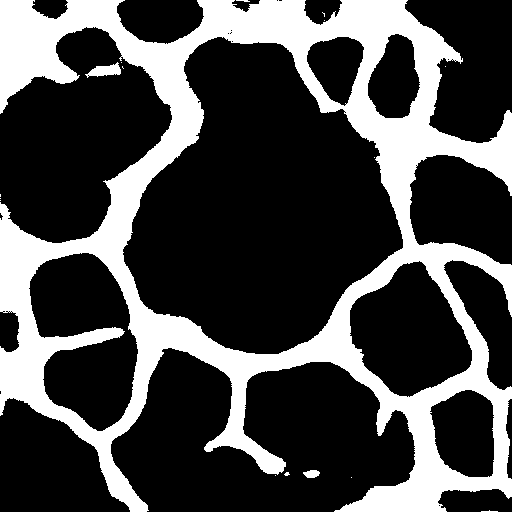
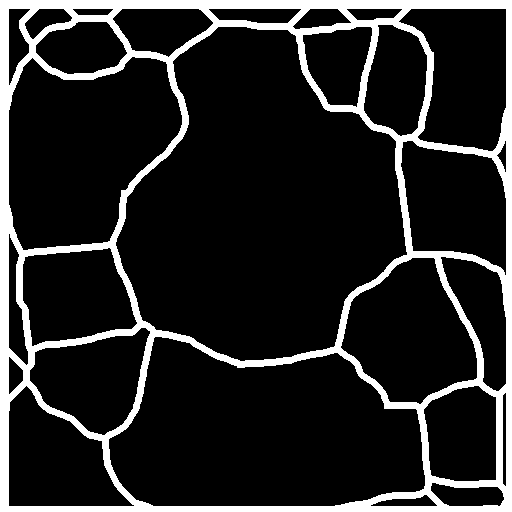
main

Changed region(s): [[0.0, 0.0, 1.0, 1.0], [0.0, 0.1875, 0.0312, 0.4375], [0.5938, 0.9062, 0.625, 0.9375]]

diff --git a/main.py b/main.py
@@ -9,7 +9,8 @@ import cv2
 
 from model.nets.mpunet import MPUNet
 import torch.nn.functional as F
-from post_proc import boundary_proc, xcx_proc
+from post_proc import boundary_proc, xcx_proc,classical_boundary_proc
+from post_water import water_post
 
 
 def read_image(image_path):
@@ -62,6 +63,14 @@ def inference(weight_path, root_path, save_path, use_post_process = False):
         image = image.to(device)
         image = image.unsqueeze(dim=0)
 
+        # label 
+        img_name = image_path.name
+        print(img_name)
+        print(Path(root_path.parent,"test_boundary_label",img_name))
+        label_xcx = cv2.imread(str(Path(root_path.parent,"test_xcx_label",img_name)),0)
+        label_boundary = cv2.imread(str(Path(root_path.parent,"test_boundary_label",img_name)),0)
+
+
         out_tensor, xcx_tensor = net(image)
         out_tensor = F.softmax(out_tensor, dim = 1)
         xcx_tensor = F.softmax(xcx_tensor, dim = 1)
@@ -71,12 +80,16 @@ def inference(weight_path, root_path, save_path, use_post_process = False):
 
         out_img = np.argmax(out_tensor, axis=2).astype(np.uint8)
         xcx_img = np.argmax(xcx_tensor, axis=2).astype(np.uint8)
-        if use_post_process:
+        if use_post_process: # post-process include prun and adaptative strategy
+            classical_out_img = classical_boundary_proc(out_img) # classical_boundary_proc
             out_img = boundary_proc(out_img)
             xcx_img = xcx_proc(xcx_img)
+            water_out_img = water_post(img, out_img, xcx_img, thresh_iou=0.9)
+
 
         out_img[out_img>0] = 255
         xcx_img[xcx_img>0] = 255
+        water_out_img[water_out_img>0] = 255
 
         
         label_name = image_path.name
@@ -87,9 +100,12 @@ def inference(weight_path, root_path, save_path, use_post_process = False):
         
         print(image_path.name)
         plt.figure(figsize=(20, 20))
-        plt.subplot(1, 3, 1), plt.imshow(img, cmap="gray"), plt.title("img"), plt.axis("off")
-        plt.subplot(1, 3, 2), plt.imshow(out_img, cmap="gray"), plt.title("output_boundary"), plt.axis("off")
-        plt.subplot(1, 3, 3), plt.imshow(xcx_img, cmap="gray"), plt.title("output_xcx"), plt.axis("off")
+        plt.subplot(2, 3, 1), plt.imshow(img, cmap="gray"), plt.title("img"), plt.axis("off")
+        plt.subplot(2, 3, 2), plt.imshow(label_xcx, cmap="gray"), plt.title("label_xcx"), plt.axis("off") # label xcx
+        plt.subplot(2, 3, 3), plt.imshow(xcx_img, cmap="gray"), plt.title("output_xcx"), plt.axis("off")
+        plt.subplot(2, 3, 4), plt.imshow(label_boundary, cmap="gray"), plt.title("label_boundary"), plt.axis("off")
+        plt.subplot(2, 3, 5), plt.imshow(classical_out_img, cmap="gray"), plt.title("classical_post_out_img"), plt.axis("off")
+        plt.subplot(2, 3, 6), plt.imshow(water_out_img, cmap="gray"), plt.title("ours_out_img"), plt.axis("off")
         plt.show()
 
         cv2.imwrite(str(Path(boundary_path, label_name)), out_img)
@@ -103,6 +119,5 @@ if __name__ == '__main__':
     infer_path = './data/OM/test_img'
     save_path = './infer/OM/'
 
-    use_post_process = False
+    use_post_process = True
     inference(weight_phta_path, infer_path, save_path, use_post_process)
-# %%

diff --git a/post_water.py b/post_water.py
@@ -7,14 +7,6 @@ import matplotlib.pyplot as plt
 import datetime
 from post_proc import skeletonize, padding_img, dilate, boundary_proc
 
-def label_img(img):
-    '''
-    Label each grain
-    :param img:
-    :return: 
-    '''
-    img_map, num_label = measure.label(img, connectivity=1, background=0, return_num=True)
-    return img_map, num_label
 
 def post_overlap_grain(i, boundary_map, xcx_map):
     '''
@@ -128,22 +120,22 @@ def water_grain(i, j, boundary_map, xcx_map, img, thresh_iou):
     return [maker, x, y]
 
 
-def water_post(img_path, boundary_path, xcx_path, thresh_iou):  # todo
+def water_post(img, boundary, xcx, thresh_iou):  # todo
     '''
     :param img_path:
     :param boundary_path:
     :param xcx_path:
     :return:
     '''
-    xcx = cv2.imread(xcx_path, 0)
-    img = cv2.imread(img_path, 0)
-    boundary = cv2.imread(boundary_path, 0)
+    # xcx = cv2.imread(xcx_path, 0)
+    # img = cv2.imread(img_path, 0)
+    # boundary = cv2.imread(boundary_path, 0)
 
-    plt.figure()
-    plt.subplot(131),plt.imshow(img)
-    plt.subplot(132),plt.imshow(boundary)
-    plt.subplot(133),plt.imshow(xcx)
-    plt.show()
+    # plt.figure()
+    # plt.subplot(131),plt.imshow(img, cmap="gray")
+    # plt.subplot(132),plt.imshow(boundary, cmap="gray")
+    # plt.subplot(133),plt.imshow(xcx, cmap="gray")
+    # plt.show()
 
     boundary[boundary != 0] = 1
 
@@ -157,8 +149,8 @@ def water_post(img_path, boundary_path, xcx_path, thresh_iou):  # todo
     # Because the boundary segmentation is not good, first pad the boundary of the boundary
     boundary = padding_img(~boundary, 0)
 
-    boundary_map, num_boundary = label_img(boundary)
-    xcx_map, num_xcx = label_img(xcx)
+    boundary_map, num_boundary = measure.label(boundary, connectivity=1, background=0, return_num=True)
+    xcx_map, num_xcx = measure.label(xcx, connectivity=1, background=0, return_num=True)
 
     for i in range(1, num_xcx + 1):
 
@@ -224,8 +216,12 @@ if __name__ == '__main__':
         pic_xcx_path = xcx_path + "/" + filename
         pic_boundary_path = boundary_path + "/" + filename
         pic_save_path = save_path + "/" + filename
-        
-        water_img = water_post(pic_img_path, pic_boundary_path, pic_xcx_path, thresh_iou)
+
+        xcx = cv2.imread(pic_xcx_path, 0)
+        img = cv2.imread(pic_img_path, 0)
+        boundary = cv2.imread(pic_boundary_path, 0)
+
+        water_img = water_post(img, boundary, xcx, thresh_iou)
         
         water_img = boundary_proc(water_img)
         water_img[water_img > 0] = 255

diff --git a/train.py b/train.py
@@ -15,7 +15,7 @@ import torch.nn as nn
 import torch.optim as optim
 from torch.utils.data import DataLoader
 import torchvision.transforms as tr
-from sklearn.model_selection import KFold
+from sklearn.model_selection import KFold, train_test_split
 import pandas as pd
 
 import metrics
@@ -142,6 +142,7 @@ class SegTrainer:
         
         self.data_experiment_path = data_experiment_path
         self.imgs_path = Path(data_experiment_path, "images")
+        print("imgs_path:------------------------------------",self.imgs_path)
         self.labels_path = Path(data_experiment_path, "labels")
         self.labels_xcx_path = Path(data_experiment_path, "labels_xcx")
         if self.loss_name in ["bcw", "uw"]:
@@ -150,6 +151,8 @@ class SegTrainer:
             self.weights_path = Path(data_experiment_path, "bcw")
         if use_preprocess:
             self.data_preprocess(data_experiment_path)
+        # print(list(self.imgs_path.glob("*.*")))
+        # print(list(self.imgs_path.glob("*.{}".format(self.imgs_suffix))))
         self.files_name = [str(item.name) for item in list(self.imgs_path.glob("*.{}".format(self.imgs_suffix)))]
 
         test_metrics = []
@@ -164,16 +167,20 @@ class SegTrainer:
         logger.log_print("Experiment: {}".format(experiment_name))
         print("start training!!!")
 
+        n_samples = len(self.files_name)
+        # print("len:files:",n_samples)
         # Dataset split
+        train_files, test_files = train_test_split(self.files_name, test_size=0.2, train_size= 0.8, random_state=self.seed_num)
+        # print(train_files)
         val_files = random.sample(list(train_files), int(len(train_files) * self.val_rate) + 1)
         train_files = list(set(train_files).difference(set(val_files)))
 
         train_files.sort()
         val_files.sort()
 
-        train_files = [self.files_name[item] for item in train_files]
-        val_files = [self.files_name[item] for item in val_files]
-        test_files = [self.files_name[item] for item in test_files]
+        # train_files = [self.files_name[item] for item in train_files]
+        # val_files = [self.files_name[item] for item in val_files]
+        # test_files = [self.files_name[item] for item in test_files]
 
         print("This is my train_files", len(train_files))
         print(train_files)

diff --git a/post_proc.py b/post_proc.py
@@ -120,14 +120,6 @@ def prun_xcx(image, kernel_size):
     return result
 
 
-def show(image):
-    image_show = image.copy()
-    image_show[image_show == 1] = 255
-    cv2.imshow('image', image_show)
-    cv2.waitKey()
-
-
-
 def boundary_proc(image):
     """
     Grain boundary post-processing operations
@@ -139,10 +131,20 @@ def boundary_proc(image):
     image = remove_small_objects(image, 20)
     image = dilate(image, 3)
     image = padding_img(image, element=1, pad_size=8)
-    t1 = time.time()
     image = prun(image, 8)
-    t2 = time.time()
-    print(t2-t1)
+    image = remove_small_objects(image, 100)
+    return image
+
+def classical_boundary_proc(image):
+    """
+    Grain boundary post-processing operations
+    :param image: 
+    :return:
+    """
+    image = dilate(image, 8)
+    image = skeletonize(image)
+    image = remove_small_objects(image, 20)
+    image = dilate(image, 3)
     image = remove_small_objects(image, 100)
     return image
 
@@ -184,7 +186,7 @@ if __name__ == '__main__':
         print(image_path.name)
 
         plt.figure("final image")
-        plt.imshow(pred)
+        plt.imshow(pred, cmap="gray")
         plt.show()
 
         pred[pred == 1] = 255
